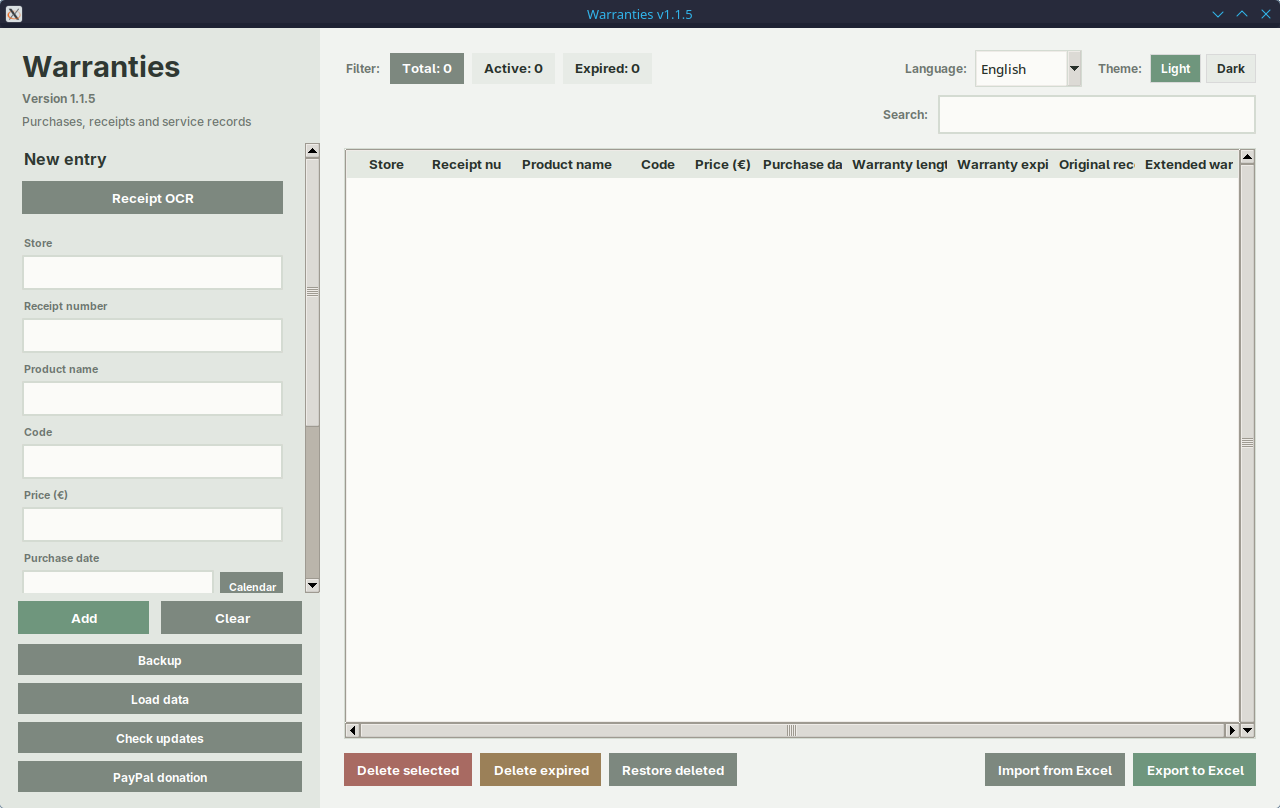
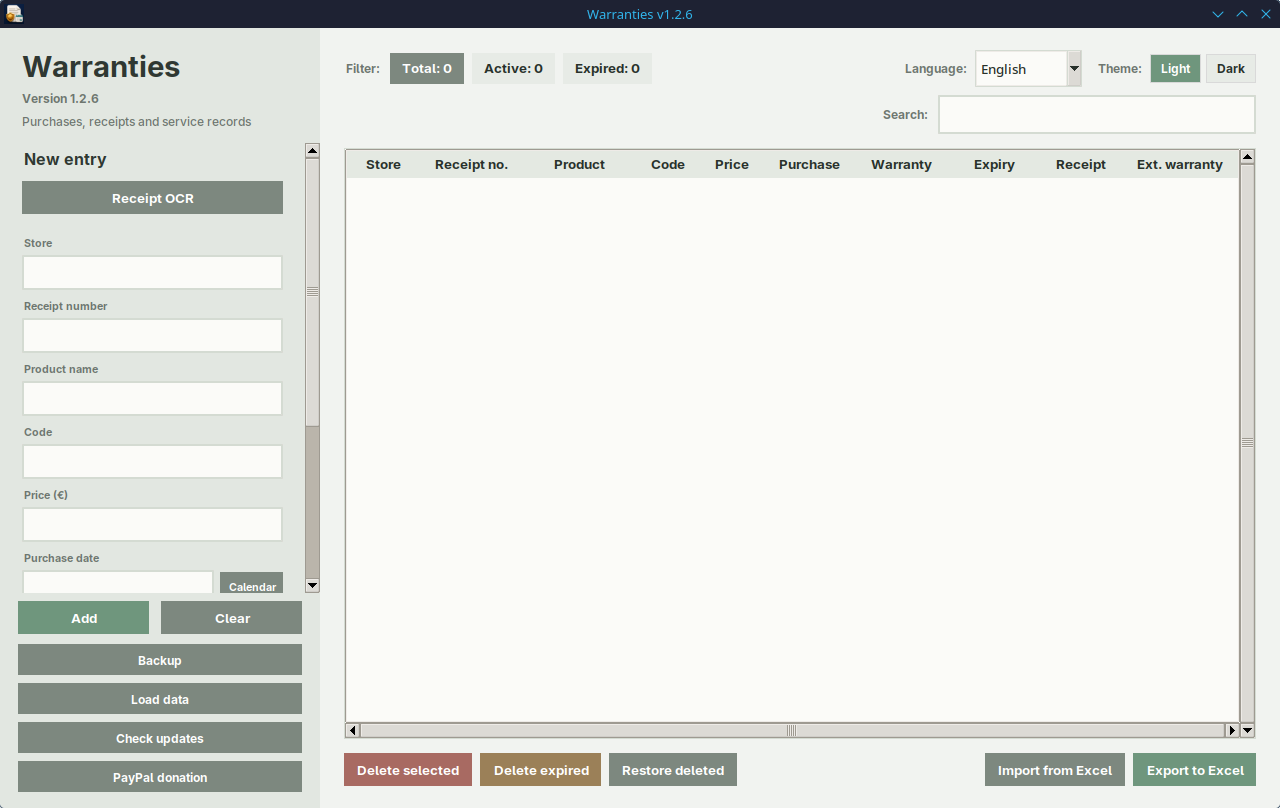
Fix warranty table layout and update checks

diff --git a/garancije.py b/garancije.py
@@ -1,5 +1,6 @@
 import tkinter as tk
 from tkinter import ttk, messagebox, filedialog
+import tkinter.font as tkfont
 import calendar
 import csv
 import json
@@ -46,7 +47,7 @@ SERVISI_DATOTEKA = os.path.join(BAZNA_MAPA, "servisi_log.json")
 DOKUMENTI_MAPA = os.path.join(BAZNA_MAPA, "dokumenti_garancija")
 BACKUP_MAPA = os.path.join(BAZNA_MAPA, "backup")
 POSTAVKE_DATOTEKA = os.path.join(BAZNA_MAPA, "postavke.json")
-APP_VERSION = "1.2.1"
+APP_VERSION = "1.2.6"
 GITHUB_REPO = "danijel0304/warranties"
 GITHUB_RELEASES_API = f"https://api.github.com/repos/{GITHUB_REPO}/releases/latest"
 GITHUB_RELEASES_URL = f"https://github.com/{GITHUB_REPO}/releases/latest"
@@ -215,6 +216,19 @@ PRIJEVODI = {
             "Originalni Račun": "Originalni račun",
             "Produljeno Jamstvo": "Produljeno jamstvo",
         },
+        "table_columns": {
+            "ID": "ID",
+            "Trgovina": "Trgovina",
+            "Broj Računa": "Broj rač.",
+            "Naziv Proizvoda": "Proizvod",
+            "Šifra": "Šifra",
+            "Cijena (€)": "Cijena",
+            "Datum Kupovine": "Kupnja",
+            "Trajanje Garancije (god)": "Jamstvo",
+            "Datum Isteka Garancije": "Istek",
+            "Originalni Račun": "Račun",
+            "Produljeno Jamstvo": "Prod. jamstvo",
+        },
     },
     "en": {
         "app_title": "Warranties",
@@ -324,6 +338,19 @@ PRIJEVODI = {
             "Originalni Račun": "Original receipt",
             "Produljeno Jamstvo": "Extended warranty",
         },
+        "table_columns": {
+            "ID": "ID",
+            "Trgovina": "Store",
+            "Broj Računa": "Receipt no.",
+            "Naziv Proizvoda": "Product",
+            "Šifra": "Code",
+            "Cijena (€)": "Price",
+            "Datum Kupovine": "Purchase",
+            "Trajanje Garancije (god)": "Warranty",
+            "Datum Isteka Garancije": "Expiry",
+            "Originalni Račun": "Receipt",
+            "Produljeno Jamstvo": "Ext. warranty",
+        },
     },
 }
 
@@ -369,7 +396,6 @@ class GarancijeApp:
         self.kreiraj_sucelje()
         self.popravi_i_ucitaj_podatke()
         self.automatski_lokalni_backup()
-        self.root.after(1500, self.provjeri_update_u_pozadini)
 
     def ucitaj_postavke(self):
         if not os.path.exists(POSTAVKE_DATOTEKA):
@@ -393,6 +419,10 @@ class GarancijeApp:
 
     def naziv_stupca(self, stupac):
         return PRIJEVODI.get(self.jezik, PRIJEVODI["en"])["columns"].get(stupac, stupac)
+
+    def naziv_stupca_tablice(self, stupac):
+        prijevodi = PRIJEVODI.get(self.jezik, PRIJEVODI["en"])
+        return prijevodi.get("table_columns", prijevodi["columns"]).get(stupac, stupac)
 
     def naziv_trenutne_teme(self):
         return self.t("theme_dark") if self.dark_mode else self.t("theme_light")
@@ -1126,7 +1156,7 @@ class GarancijeApp:
         }
         self._zadnja_sirina_tablice = 0
         for s in STUPCI:
-            self.tree.heading(s, text=self.naziv_stupca(s), command=lambda _s=s: self.sortiraj(_s))
+            self.tree.heading(s, text=self.naziv_stupca_tablice(s), command=lambda _s=s: self.sortiraj(_s))
             sirina = self.osnovne_sirine_stupaca.get(s, 120)
             min_sirina = 0 if s == "ID" else self.min_sirine_stupaca.get(s, 60)
             self.tree.column(s, width=sirina, minwidth=min_sirina, stretch=False, anchor="center")
@@ -1155,6 +1185,20 @@ class GarancijeApp:
         self.menu.add_command(label=self.t("menu_edit_product"), command=self.uredi_proizvod)
         self.root.bind("<Configure>", self.prilagodi_responzivnost)
         self.root.after_idle(self.prilagodi_responzivnost)
+
+    def izracunaj_min_sirine_stupaca(self):
+        skala = self._zadnja_ui_skala[0] if self._zadnja_ui_skala else 1.0
+        font_size = max(8, int(10 * skala))
+        heading_font = tkfont.Font(family="Segoe UI", size=font_size, weight="bold")
+        min_sirine = {}
+        for stupac in STUPCI:
+            if stupac == "ID":
+                continue
+            tekst = self.naziv_stupca_tablice(stupac)
+            tekst_sirina = heading_font.measure(tekst) + 30
+            zadana_sirina = self.min_sirine_stupaca.get(stupac, 60)
+            min_sirine[stupac] = max(zadana_sirina, tekst_sirina)
+        return min_sirine
 
     def obnovi_sucelje(self):
         spremljeni_unosi = {}
@@ -1207,31 +1251,35 @@ class GarancijeApp:
         self._zadnja_sirina_tablice = dostupno
 
         vidljivi_stupci = [s for s in STUPCI if s != "ID"]
-        osnovno_ukupno = sum(self.osnovne_sirine_stupaca[s] for s in vidljivi_stupci)
-        min_ukupno = sum(self.min_sirine_stupaca[s] for s in vidljivi_stupci)
+        min_sirine = self.izracunaj_min_sirine_stupaca()
+        osnovne_sirine = {
+            s: max(self.osnovne_sirine_stupaca[s], min_sirine[s])
+            for s in vidljivi_stupci
+        }
+        osnovno_ukupno = sum(osnovne_sirine[s] for s in vidljivi_stupci)
+        min_ukupno = sum(min_sirine[s] for s in vidljivi_stupci)
 
         if dostupno >= osnovno_ukupno:
             faktor = dostupno / osnovno_ukupno
-            sirine = {s: int(self.osnovne_sirine_stupaca[s] * faktor) for s in vidljivi_stupci}
+            sirine = {s: int(osnovne_sirine[s] * faktor) for s in vidljivi_stupci}
         elif dostupno >= min_ukupno:
             dodatno = dostupno - min_ukupno
-            fleksibilno = sum(self.osnovne_sirine_stupaca[s] - self.min_sirine_stupaca[s] for s in vidljivi_stupci)
+            fleksibilno = sum(osnovne_sirine[s] - min_sirine[s] for s in vidljivi_stupci)
             sirine = {}
             for s in vidljivi_stupci:
-                udio = (self.osnovne_sirine_stupaca[s] - self.min_sirine_stupaca[s]) / fleksibilno
-                sirine[s] = int(self.min_sirine_stupaca[s] + dodatno * udio)
+                udio = (osnovne_sirine[s] - min_sirine[s]) / fleksibilno if fleksibilno else 0
+                sirine[s] = int(min_sirine[s] + dodatno * udio)
         else:
-            faktor = dostupno / min_ukupno
-            sirine = {s: max(32, int(self.min_sirine_stupaca[s] * faktor)) for s in vidljivi_stupci}
+            sirine = dict(min_sirine)
 
         razlika = dostupno - sum(sirine.values())
-        if razlika:
+        if razlika > 0:
             sirine["Naziv Proizvoda"] = max(32, sirine["Naziv Proizvoda"] + razlika)
 
         self.tree.column("ID", width=0, minwidth=0, stretch=False)
         for s in vidljivi_stupci:
-            sirina = max(32, sirine[s])
-            min_sirina = min(self.min_sirine_stupaca.get(s, 60), sirina)
+            sirina = max(32, int(sirine[s]))
+            min_sirina = min(int(min_sirine.get(s, 60)), sirina)
             self.tree.column(s, width=sirina, minwidth=min_sirina, stretch=False)
 
     def prilagodi_responzivnost(self, event=None):

diff --git a/README.md b/README.md
@@ -85,11 +85,10 @@ automatically after changing settings.
 
 ## Updates
 
-After startup, the app checks the latest GitHub release in the background. If a
-newer version is available, it asks whether to open the download page. If the
-user declines, the same release is not shown again. The **Check updates** button
-runs the same check manually and also reports when the current version is up to
-date.
+The **Check updates** button checks the latest GitHub release manually. If a
+newer version is available, it asks whether to download and install it. If the
+internet connection is unavailable, the warning appears only after a manual
+check.
 
 ## Receipt OCR Optional
 
@@ -213,11 +212,9 @@ nakon promjene postavki.
 
 ## Ažuriranja
 
-Nakon pokretanja program u pozadini provjerava zadnji GitHub release. Ako je
-dostupna novija verzija, pita korisnika želi li otvoriti stranicu za
-preuzimanje. Ako korisnik odbije, ista verzija se više ne nudi. Gumb
-**Provjeri update** pokreće istu provjeru ručno i javlja ako je trenutačna
-verzija već najnovija.
+Gumb **Provjeri update** ručno provjerava zadnji GitHub release. Ako je dostupna
+novija verzija, pita korisnika želi li je preuzeti i instalirati. Ako internetska
+veza nije dostupna, upozorenje se prikazuje samo nakon ručne provjere.
 
 ## OCR Računa Neobavezno
 
